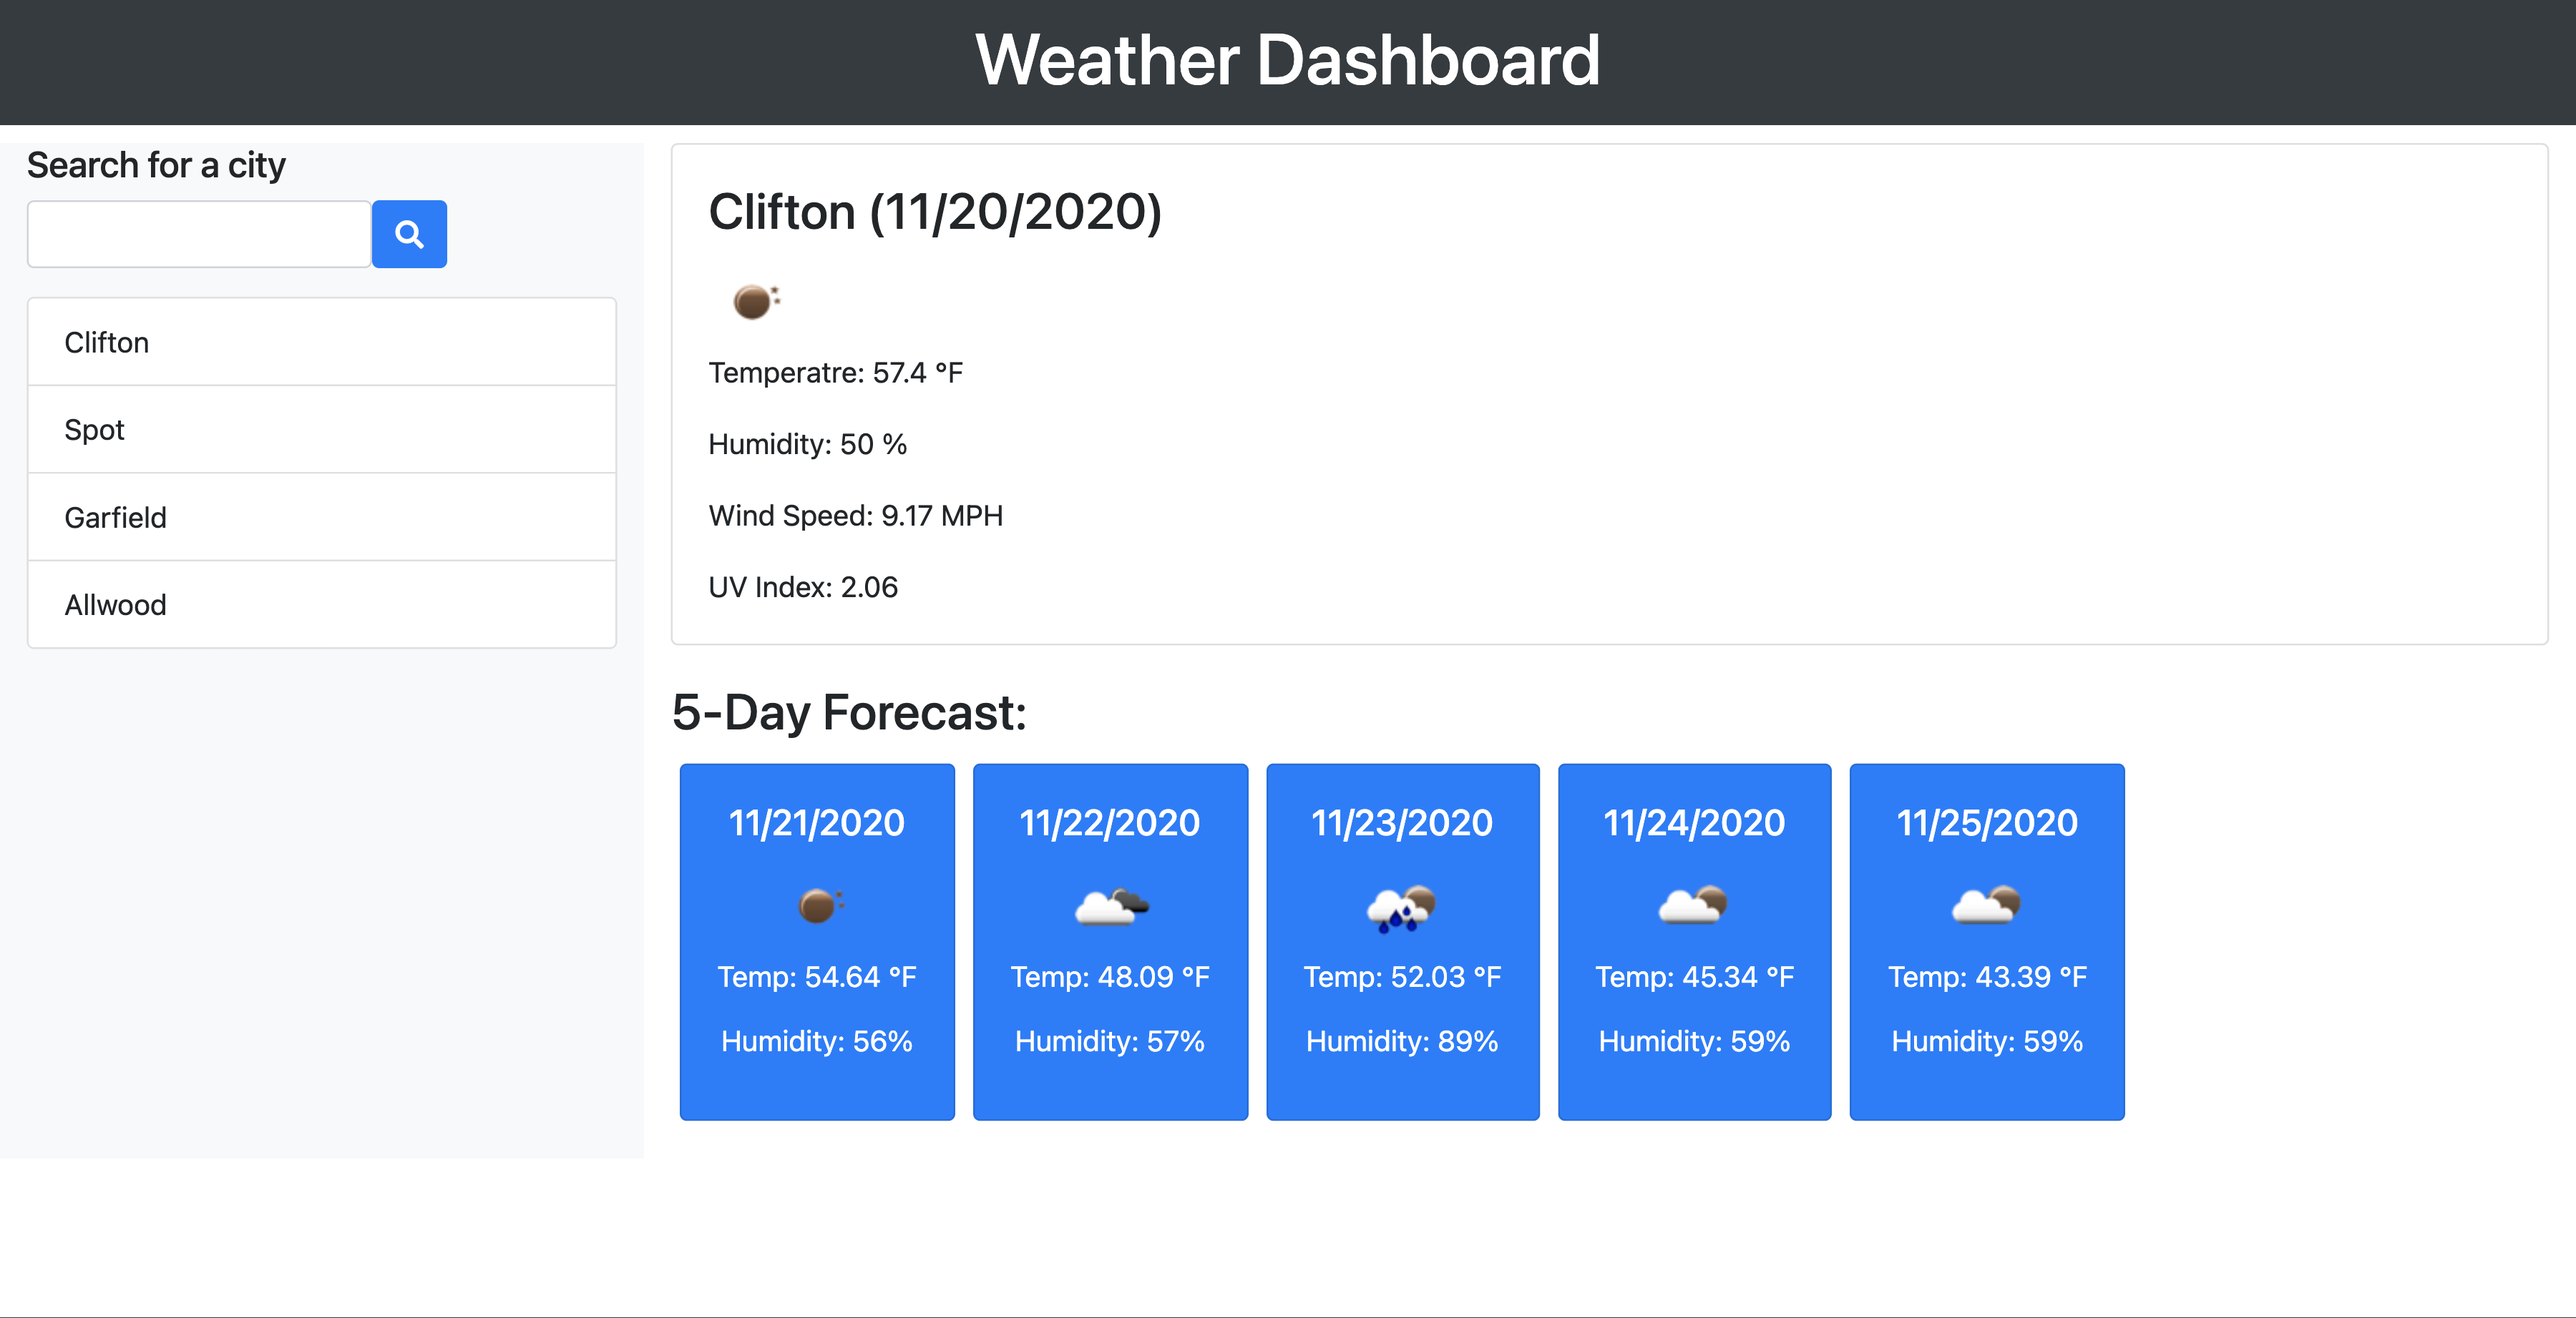
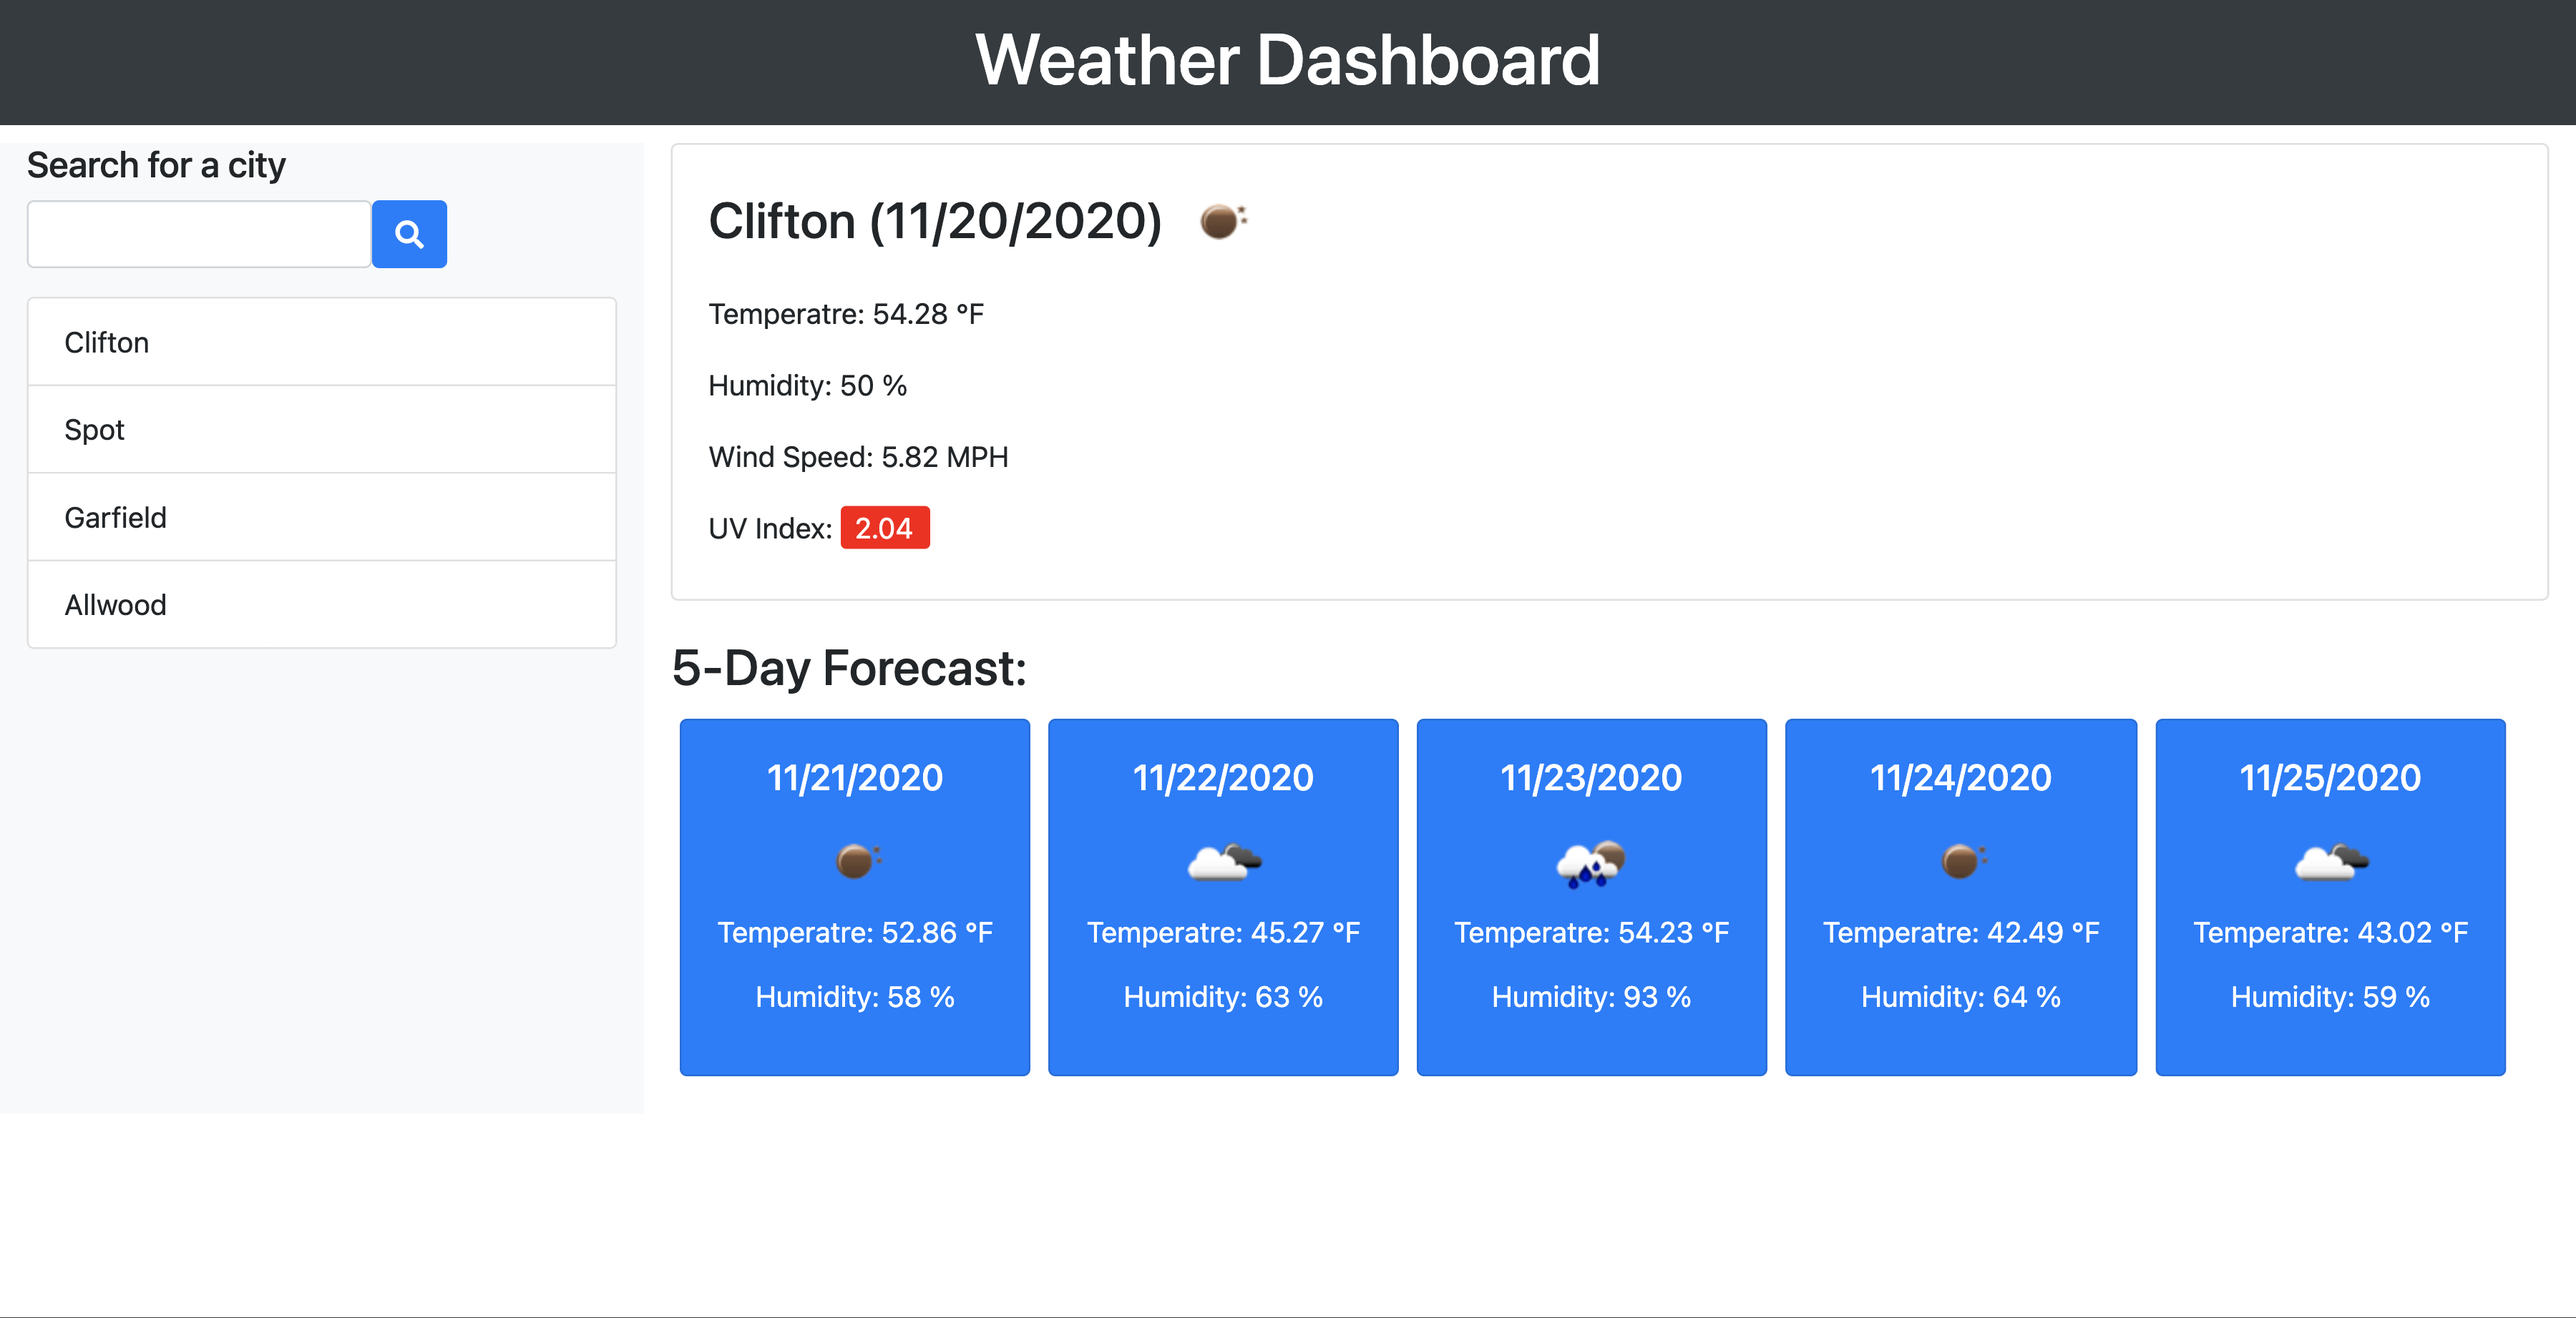
uvindex change color and update readme file

diff --git a/Assets/js/script.js b/Assets/js/script.js
@@ -120,12 +120,16 @@ function getUVIndex(weatherResponse) {
 
                 var title = $("<h3>").addClass("card-title").text(titleName);
                 var icon = "<img src='https://openweathermap.org/img/w/" + weatherResponse.weather[0].icon + ".png'>";
+                title.append(icon);
+
                 var temp = $("<p>").addClass("card-text").text("Temperatre: " + weatherResponse.main.temp + " °F");
                 var humidity = $("<p>").addClass("card-text").text("Humidity:  " + weatherResponse.main.humidity + " %");
                 var wind = $("<p>").addClass("card-text").text("Wind Speed: " + weatherResponse.wind.speed + " MPH");
-                var uvIndex = $("<p>").addClass("card-text").text("UV Index: " + response.value);
+                var uvIndex = $("<p>").addClass("card-text").text("UV Index: ");
+                var label = $("<label>").addClass("uvIndex").text(response.value);
+                uvIndex.append(label);
 
-                cardBody.append(title, icon, temp, humidity, wind, uvIndex);
+                cardBody.append(title, temp, humidity, wind, uvIndex);
                 card.append(cardBody);
                 $("#today").append(card);    
             }
@@ -163,8 +167,8 @@ function forcastWeather(cityName) {
 
             var date = $("<h5>").addClass("card-title").text(formattedDate);
             var icon = "<img src='https://openweathermap.org/img/w/" + list.weather[0].icon + ".png'>";
-            var temp = $("<p>").addClass("card-title").text("Temp: " + tempInF.toFixed(2) + " °F");
-            var humidity = $("<p>").addClass("card-title").text("Humidity: " + list.main.humidity + "%");
+            var temp = $("<p>").addClass("card-title").text("Temperatre: " + tempInF.toFixed(2) + " °F");
+            var humidity = $("<p>").addClass("card-title").text("Humidity: " + list.main.humidity + " %");
         
             divBody.append(date, icon, temp, humidity);
             div.append(divBody);   

diff --git a/Assets/css/style.css b/Assets/css/style.css
@@ -12,3 +12,11 @@ header h1 {
   display: inline-block;
   margin: 5px;
 }
+
+.uvIndex {
+  color: white;
+  background-color: red;
+  width: 50px;
+  border-radius: 3px;
+  padding-left: 8px;
+}
